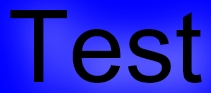
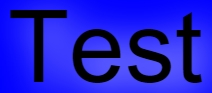
update docs images and change to version 2.1

diff --git a/src/pictex/__init__.py b/src/pictex/__init__.py
@@ -14,7 +14,7 @@ from .canvas import Canvas
 from .models import *
 from .image import Image
 
-__version__ = "0.2.0"
+__version__ = "0.2.1"
 
 __all__ = [
     "Canvas",

diff --git a/CHANGELOG.md b/CHANGELOG.md
@@ -1,6 +1,21 @@
 # CHANGELOG
 
-## v0.2.0 - 07/10/2025
+All notable changes to this project will be documented in this file.
+
+The format is based on [Keep a Changelog](https://keepachangelog.com/en/1.0.0/),
+and this project adheres to [Semantic Versioning](https://semver.org/spec/v2.0.0.html).
+
+## [0.2.1] - 2025-07-10
+
+### Features
+
+-   **Configurable Font Smoothing:** Added a `.font_smoothing()` method to the `Canvas` to control the text anti-aliasing strategy. This allows users to choose between `'subpixel'` (default, for maximum sharpness on LCDs) and `'standard'` (grayscale, for universal compatibility).
+
+### Fixes
+
+-   **Text Rendering Quality:** Resolved a major issue where text could appear aliased or pixelated. The new default font smoothing (`'subpixel'`) ensures crisp, high-quality text output out-of-the-box.
+
+## [0.2.0] - 2025-07-10
 
 ### Features
 
@@ -10,6 +25,6 @@
 
 -   **Modular Renderer:** The monolithic `SkiaRenderer` has been refactored into a modular `renderer` package. This greatly improves maintainability, testability, and code clarity.
 
-## v0.1.0 - 07/09/2025
+## [0.1.0] - 2025-07-09
 
 -   Initial release.
